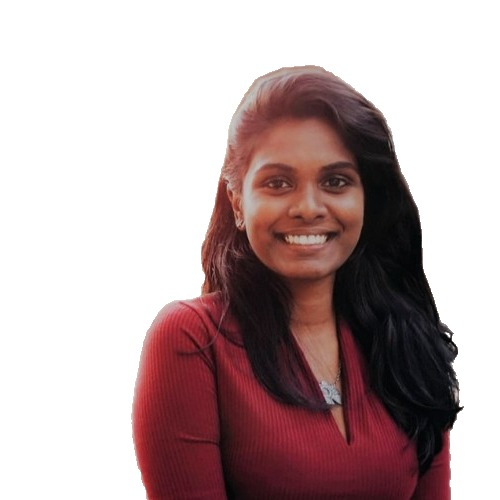
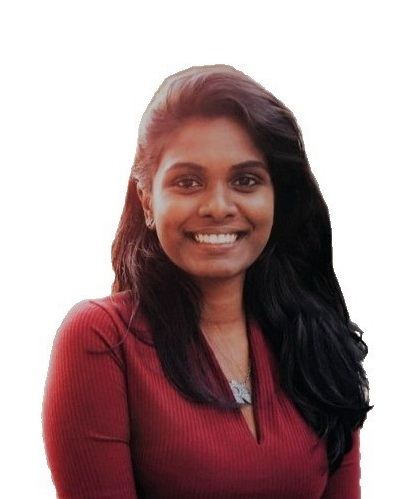
update ai2-c2

diff --git a/_courses/ai2-c2.md b/_courses/ai2-c2.md
@@ -15,7 +15,7 @@ header:
 > *Long ago in a distant land, I, Multi-Layer Perceptron, the shapeshifting master of darkness, unleashed an unspeakable evil. But, a foolish samurai warrior wielding a convolutional sword stepped forth to oppose me. Before the final blow was struck, I tore open a portal in time and flung him into the future where my evil is law. Now, the fool seeks to return to the past and undo the future that is MLP.*
 
 
-Welcome to the **First Edition** of AI2, a follow-up to our introductory course [AI-1](/catalog/cohort2/ai1/).
+Welcome to the **Second Edition** of AI2, a follow-up to our introductory course [AI-1](/catalog/cohort2/ai1/).
 
 In this course, you will continue your data science journey to learn more about convolutional neural networks and how they're being used for machine learning. We'll emphasize both the basic algorithms and the practical tricks needed to get them to work well. 
 
@@ -55,7 +55,7 @@ You can [read more about him here](https://www.univ.ai/team/pavlos-protopapas-2)
 - His main area of research is applied AI to astrophysical problems. 
 - Nowadays, he focuses on developing models to process the real-time data of the next generation of telescopes.
 
-The teaching assistants for the duration of this course are:
+**The teaching assistants for the duration of this course are:**
 
 ### Vishnu M
 
@@ -68,8 +68,8 @@ The teaching assistants for the duration of this course are:
 
 <img src="/assets/ai2-c2.assets/HarshGoyal.jpeg" style="zoom:55%;" />
 
-- Harsh is currently studying productionizing AI with Univ.AI. 
-- He is passionate about intersection of sustainable technology and AI.
+- Harsh Vardhan completed Master AI and ML with univ.ai and is currently a teaching assistant. He is passionate about ai enabled sustainable development.  
+- He also enjoys climbing/bouldering and running.
 
 ### Sakthisree Venkateshan
 
@@ -130,14 +130,14 @@ directed towards giving a brief overview of the homework problem. We will discus
 
 ### Welcome Session - Preparing for this class 
 
-There will be a **Welcome Session** scheduled on ```03 November 2020``` at ``` 7:00 PM``` IST for all registered students. 
+There will be a **Welcome Session** scheduled on ```14 November 2021``` at ``` 7:00 PM``` IST for all registered students. 
 
 Please check your mail for more information.
 
 
 ### High level course schedule 
 
-![](/assets/ai2-c1.assets/schedule.jpg)
+![](/assets/ai2-c2.assets/schedule.jpg)
 
 *NOTE*: Below timings are in IST
 
@@ -208,17 +208,17 @@ Reference:
 
 ## Logistics - What you need to begin?
 
-We assume you have a [Univ.AI](https://courses.univ.ai) account, created when you signed up at [courses.univ.ai](https://courses.univ.ai). 
+We assume you have a [Univ.AI](https://course.univ.ai) account, created when you signed up at [course.univ.ai](https://course.univ.ai). 
 If not, email [programs@univ.ai](mailto:programs@univ.ai).
 
 
 ### Education software we use
 
-- Our lectures and labs are carried out via [Zoom](/support/zoom.md) (install instructions).
-- Quizzes & exercises will be conducted on the digital learning platform [Ed](/support/edstem.md).
+- Our lectures and labs are carried out via [Zoom](/support/zoom/) (install instructions).
+- Quizzes & exercises will be conducted on the digital learning platform [Ed](/support/edstem/).
 - Ocassionally, we may conduct in-class contests on [kaggle](https://www.kaggle.com/). Please register on kaggle and familarize yourself with it, if you haven't already done so. This is a short video that will help you learn how to use [kaggle](https://www.youtube.com/watch?v=Gp_qv317Gew).
 
 All exercises and homeworks in this course will be done in jupyter notebooks. Detailed instructions to setup and work on Jupyter notebooks can be seen [here](https://www.dataquest.io/blog/jupyter-notebook-tutorial/).
 
-Our module policies around collaboration and grading are listed [here](/policy.md). Our expectations of you are also laid out in that document.
+Our module policies around collaboration and grading are listed [here](/assets/ai2-c1.assets/policy.md). Our expectations of you are also laid out in that document.
 

diff --git a/_catalog/cohort2/pyds.md b/_catalog/cohort2/pyds.md
@@ -136,8 +136,6 @@ Please find a demo of our course style and pedagogy.
   <iframe src="https://www.youtube.com/embed/JDwm7wmWGBE" frameborder="0" allowfullscreen="true"> </iframe>
 </figure>
 
-<br>
-
 ## Course Topics 
 
 > Note: Prior knowledge of python programming is not necessary for this module
